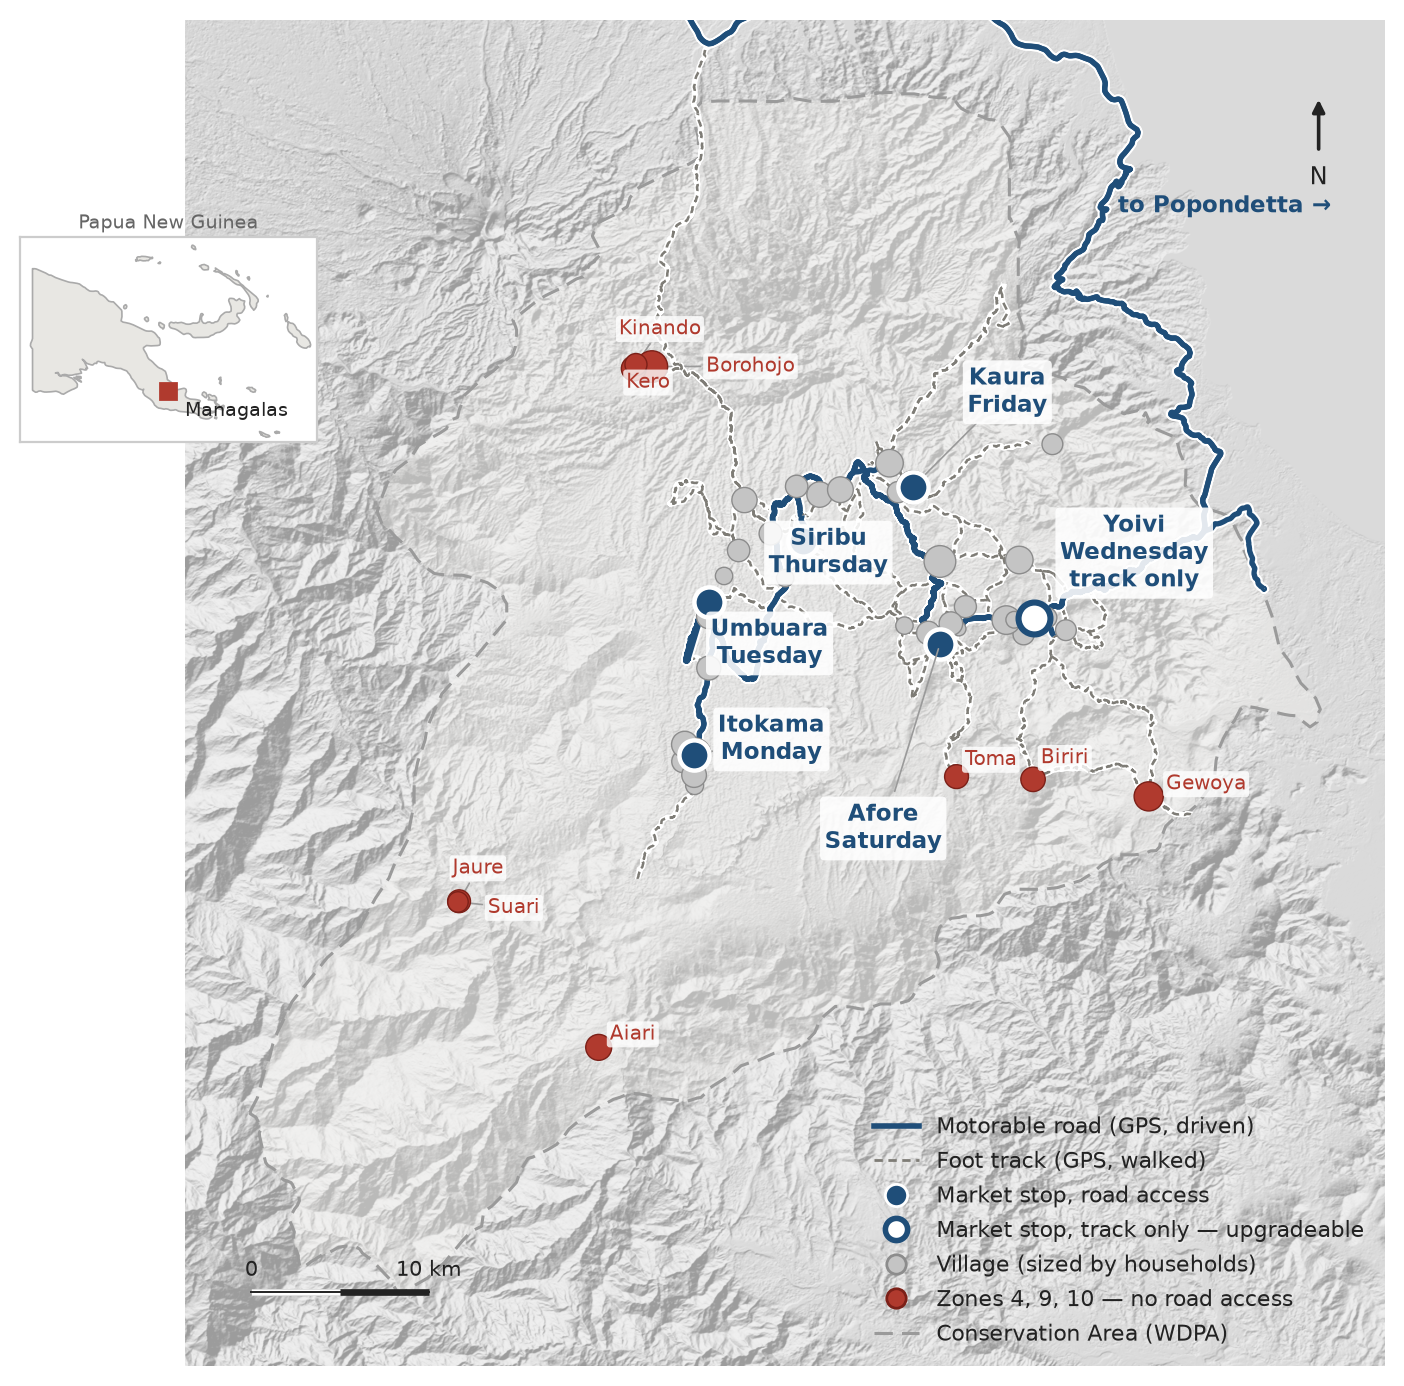
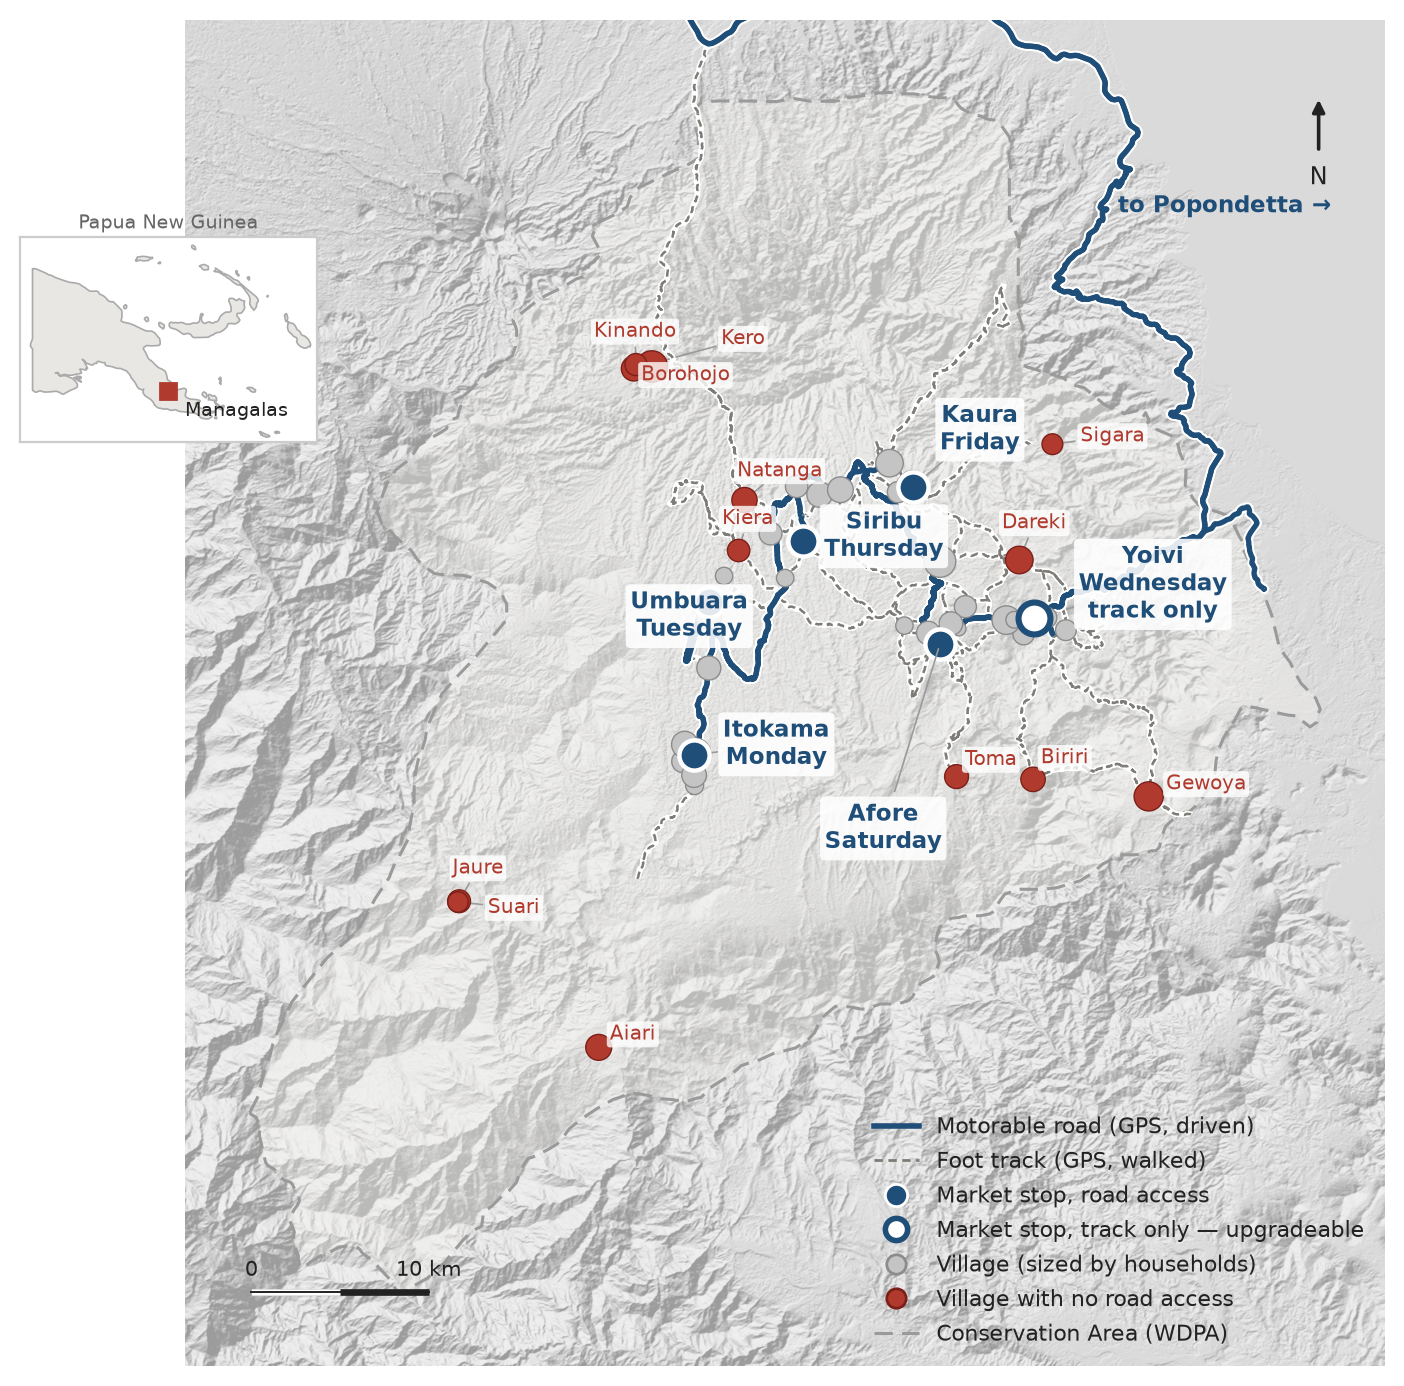
Kiera and Natanga: footpath access only
Field knowledge, Sep 2026. Recorded in a new
data/reference/footpath_only_villages.csv, which build_access.py reads and which
outranks the 2 km snap test.

Natanga is the case the measurement got wrong: it snapped 1,702 m from the
network, inside the 2 km cut, so it counted as road-served - but that 1,702 m is
a walk. Proximity to a road line is not access to it. Kiera measured 2,078 m and
was already outside the cut by 80 m; it is now excluded on evidence instead of on
a margin, which removes the caveat flagged last round.

- build_access.py: new road_access_basis column on every village row - "field
  knowledge: footpath only", "measured: within 2 km of the network", or
  "measured: beyond 2 km of the network".
- make_access_figures.py: Figure A now colours villages by the computed result
  rather than by a hard-coded {4, 9, 10} zone list, which would have drawn Kiera
  and Natanga as road-served. Legend reads "Village with no road access".

Coverage falls to 2,554 of 3,837 households (66.6%) over 33 villages; within
2 km 1,380 (36.0%) and 5 km 2,155 (56.2%) are unchanged, since neither village
was inside those bands. Siribu's road catchment is 5 villages and 250
households. With the two out, the 2 km threshold sits in a clear gap again -
furthest road-served village 1.52 km, nearest excluded 3.19 km.

Claude-Session: https://claude.ai/code/session_01MccBSyiqvhYzrwXhxPb7TF

Changed region(s): [[0.4288, 0.2482, 0.8882, 0.5584], [0.3981, 0.2172, 0.5819, 0.2792], [0.6738, 0.9307, 0.9188, 0.9618]]

diff --git a/scripts/build_access.py b/scripts/build_access.py
@@ -362,10 +362,24 @@ def main():
                           crs=WGS84)
     vu = vg.to_crs(UTM)
 
+    # Villages someone on the ground says are reachable on foot only. This
+    # outranks the snap test: proximity to a road line is not access to it, and
+    # Natanga measured 1.70 km off the network - inside the 2 km cut, but the
+    # 1.70 km is a walk.
+    foot_only = {}
+    fo_path = ROOT / "data" / "reference" / "footpath_only_villages.csv"
+    if fo_path.exists():
+        fo = pd.read_csv(fo_path, comment="#")
+        foot_only = dict(zip(fo["village"], fo["reason"]))
+        print("\nfield-knowledge overrides (footpath access only):")
+        for k in sorted(foot_only):
+            print(f"  ! {k}: {foot_only[k]}")
+
     rows = []
     for (_, vr), pu, pl in zip(vg.iterrows(), vu.geometry, vg.geometry):
         node, off = snap(G, pu)
-        reachable = off <= SNAP_MAX_M
+        on_foot_only = vr["vil_name"] in foot_only
+        reachable = (off <= SNAP_MAX_M) and not on_foot_only
 
         # road_km is distance ALONG THE ROAD, node to node. The walk from the
         # village to wherever it meets the road is reported separately as
@@ -431,6 +445,10 @@ def main():
             "straight_km": round(straight_km, 2),
             "walk_hours_est": round(hours, 2),
             "road_reachable": "yes" if best_stop else "no",
+            "road_access_basis": ("field knowledge: footpath only" if on_foot_only
+                                  else "measured: within 2 km of the network"
+                                  if best_stop else
+                                  "measured: beyond 2 km of the network"),
             "offroad_to_road_m": round(off),
             "walk_basis": wsrc,
             "stop_access": ("track only" if nearest_name in track_only else "road"),

diff --git a/scripts/make_access_figures.py b/scripts/make_access_figures.py
@@ -42,7 +42,6 @@ INK_SOFT = "#666666"
 LAND = "#F4F3F0"
 BOUNDARY_EDGE = "#9A9A9A"
 
-ROADLESS_ZONES = {"4", "9", "10"}
 
 mpl.rcParams.update({
     "font.family": "DejaVu Sans", "font.size": 9,
@@ -231,8 +230,10 @@ def figure_a(roads, foot, boundary, vg, stops):
     extent = (minx - padx, maxx + padx, miny - pady, maxy + pady)
     base(ax, boundary, roads, foot, extent)
 
-    roadless = vg[vg["zone"].isin(ROADLESS_ZONES)]
-    served = vg[~vg["zone"].isin(ROADLESS_ZONES)]
+    # Drawn from the measured/overridden result, not from a zone list: Kiera and
+    # Natanga are in Zone 3 and have no road access, which a zone rule misses.
+    roadless = vg[vg["road_reachable"] == "no"]
+    served = vg[vg["road_reachable"] != "no"]
     ax.scatter(served.geometry.x, served.geometry.y,
                s=village_sizes(served["households"]), color=OTHER,
                edgecolor="#8C8C8C", linewidths=0.5, zorder=7)
@@ -334,7 +335,7 @@ def figure_a(roads, foot, boundary, vg, stops):
         Line2D([], [], marker="o", ls="", ms=7, mfc=OTHER, mec="#8C8C8C",
                label="Village (sized by households)"),
         Line2D([], [], marker="o", ls="", ms=7, mfc=NOROAD, mec="#7B2018",
-               label="Zones 4, 9, 10 — no road access"),
+               label="Village with no road access"),
         Line2D([], [], color=BOUNDARY_EDGE, lw=1.1, ls=(0, (6, 3)),
                label="Conservation Area (WDPA)"),
     ]

diff --git a/outputs/access/NOTES.md b/outputs/access/NOTES.md
@@ -118,6 +118,18 @@ The Ugunomu→Siribu route measures **3.36 km** end to end. This reverses the
 earlier position here that Siribu had no road access — that conclusion rested on
 the tightened automatic thresholds alone, and field knowledge outranks them.
 
+**Kiera and Natanga are reachable on foot only**, listed in
+`data/reference/footpath_only_villages.csv`. Both are Zone 3. Natanga is the
+case the measurement would have got wrong: it snapped 1,702 m from the network,
+inside the 2 km cut, so it counted as road-served — but that 1,702 m is a walk.
+Proximity to a road line is not access to it. Kiera measured 2,078 m and was
+already outside the cut; it is now excluded on the evidence rather than by an
+80 m margin.
+
+`road_access_basis` in `mca_village_access.csv` says which of the three applies
+to every village: `field knowledge: footpath only`, `measured: within 2 km of the
+network`, or `measured: beyond 2 km of the network`.
+
 ### The supplied alignments, and what upgrading them would buy
 
 Two further alignments were supplied directly and are held in
@@ -142,9 +154,9 @@ Only **Yoivi** is left as an upgrade scenario. What upgrading it would buy:
 |---|---|---|---|
 | within 2 km of a stop by road | 1,380 (36.0 %) | **1,671 (43.5 %)** | +291 |
 | within 5 km | 2,155 (56.2 %) | **2,274 (59.3 %)** | +119 |
-| within 10 km | 2,650 (69.1 %) | **2,650 (69.1 %)** | 0 |
+| within 10 km | 2,554 (66.6 %) | **2,554 (66.6 %)** | 0 |
 
-Reachability at all is unchanged at 2,650 households: the villages concerned can
+Reachability at all is unchanged at 2,554 households: the villages concerned can
 already get to *some* road-served stop, just a much farther one. What upgrading
 buys is proximity, not access — about **290 households brought inside 2 km**.
 
@@ -165,6 +177,9 @@ zones was encoded in the method, and the network reproduces the split exactly:
 - **Must not reach** — Suari, Jaure, Aiari, Gewoya, Toma, Biriri, Kero, Kinando,
   Borohojo: all 7.9 to 16.8 km away.
 
+Two villages the brief does not mention either way, Kiera and Natanga, are
+excluded on field knowledge rather than on this test — see above.
+
 No road is drawn into Zones 4, 9 or 10.
 
 ---
@@ -179,12 +194,10 @@ as 1.4 km from itself.
 
 A village further than 2 km from the network is reported as `road_reachable = no`
 with `road_km` blank. It is **not** given a straight-line figure, which would read
-as a road distance. The threshold used to sit in a wide empty gap; with the Siribu
-spur in the network it no longer does. The furthest road-served village is now
-Natanga at **1.70 km** and the nearest unserved one is Kiera at **2.08 km**, so
-Kiera falls the wrong side of the cut by 80 m. Kiera should be checked on the
-ground before these figures are published — it is the one village whose status
-turns on the threshold rather than on the evidence.
+as a road distance. With Kiera and Natanga taken out by field knowledge, the
+threshold again sits in a clear gap: the furthest road-served village is Arafuro
+at **1.52 km** and the nearest one the measurement excludes is Dareki at
+**3.19 km**. No village's status now turns on where the 2 km line is drawn.
 
 The road and walking graphs are built by noding the recordings and then bridging
 endpoint gaps under 450 m, because separate recordings of the same road stop and
@@ -206,10 +219,15 @@ within 500 m of the road is served".
 
 `fig_mca_map.png` and `fig_market_reach.png`, both 9×7 inches at 200 dpi, DejaVu
 Sans 9 pt, no title or figure number inside the image. Palette as specified:
-#1F4E79 circuit and stops, #C4C4C4 other villages, #B03A2E roadless zones.
+#1F4E79 circuit and stops, #C4C4C4 other villages, #B03A2E villages with no
+road access.
 
 **Zone boundaries are not drawn.** No polygon for them exists in the supplied
 data and the brief says to leave them out rather than approximate them.
+
+The villages drawn red on Figure A are those with **no road access as computed**,
+not a fixed list of zones. That distinction matters: Kiera and Natanga are Zone 3
+and red, while other Zone 3 villages are road-served.
 
 A third figure, `fig_road_speed.png`, was added on request — see below.
 
@@ -219,21 +237,24 @@ A third figure, `fig_road_speed.png`, was added on request — see below.
 
 | Claim in the report | What the road network gives |
 |---|---|
-| 3,059 households, 87.7 %, served by the circuit | **2,650 of 3,837 households, 69.1 %**, are reachable by road at all |
+| 3,059 households, 87.7 %, served by the circuit | **2,554 of 3,837 households, 66.6 %**, are reachable by road at all |
 | — | within 2 km by road: **1,380 hh (36.0 %)** |
 | — | within 5 km: **2,155 hh (56.2 %)** |
-| — | within 10 km: **2,650 hh (69.1 %)** |
-| Siribu covers Zones 3 and 5; every village within 4.0 km | **Half supported.** Siribu is road-served and is now the nearest stop for 9 villages and 755 households, including Zone 3 and Zone 5. But only Ugunomu (3.36 km) is inside 4.0 km of it: Natanga is 5.30, Dea 5.63, Jorua 6.85, Koruwo 9.58, and Kiera is not road-reachable at all. The coverage claim holds; the 4.0 km claim does not. |
+| — | within 10 km: **2,554 hh (66.6 %)** |
+| Siribu covers Zones 3 and 5; every village within 4.0 km | **Not supported as stated.** Siribu is road-served, and by road it serves 5 villages and 250 households — Siribu itself, Ugunomu (3.36 km), Dea (5.63), Jorua (6.85) and Koruwo (9.58). Only Ugunomu is inside 4.0 km. Kiera and Natanga, the two largest of the Zone 3 claim at 149 households between them, have footpath access only and are not served by road from anywhere. |
 
 Road distance runs a **median 1.11× the straight line**, so straight-line figures
 are optimistic throughout — as the brief anticipated. The ratio fell from 1.29×
 when the Siribu spur entered the network: the Zone 3 and 5 villages no longer
 have to route the long way round to Kaura or Umbuara.
 
-### Twelve villages, 1,187 households, are not reachable by road
+### Thirteen villages, 1,283 households, are not reachable by road
 
-Borohojo (271), Gewoya (188), Dareki (145), Aiari (109), Kero (89), Biriri (82),
-Toma (73), Jaure (59), Kiera (53), Kinando (49), Sigara (36), Suari (33).
+Borohojo (271), Gewoya (188), Dareki (145), Aiari (109), Natanga (96), Kero (89),
+Biriri (82), Toma (73), Jaure (59), Kiera (53), Kinando (49), Sigara (36),
+Suari (33).
+
+Kiera and Natanga are here on field knowledge; the other eleven on measurement.
 
 Two of these are worth separate attention because the brief asks:
 
@@ -370,7 +391,7 @@ repeated passes over the same chunks in different seasons.
 |---|---|
 | `mca_roads.geojson` | 478 km motorable road, with per-segment classification evidence |
 | `mca_market_stops.geojson` | the six stops, with road or track access marked |
-| `mca_village_access.csv` | 46 villages: nearest stop, road km, straight km, walking hours, and the caveats per row |
+| `mca_village_access.csv` | 46 villages: nearest stop, road km, straight km, walking hours, `road_access_basis`, and the caveats per row |
 | `mca_service_areas.geojson` | 15 corridor polygons, 2/5/10 km road distance × the 5 road-served stops |
 | `fig_mca_map.png` | Figure A — the map |
 | `fig_market_reach.png` | Figure B — market reach |
@@ -381,5 +402,6 @@ repeated passes over the same chunks in different seasons.
 Scripts that produced them, in order:
 `classify_mode.py` → `build_access.py` → `make_access_figures.py` → `road_speed.py`
 
-Field-knowledge overrides live in `data/access_overrides.csv` (stop access) and
-`data/reference/confirmed_roads.csv` (individual segments confirmed driveable).
+Field-knowledge overrides live in `data/access_overrides.csv` (stop access),
+`data/reference/confirmed_roads.csv` (individual segments confirmed driveable)
+and `data/reference/footpath_only_villages.csv` (villages reachable on foot only).
